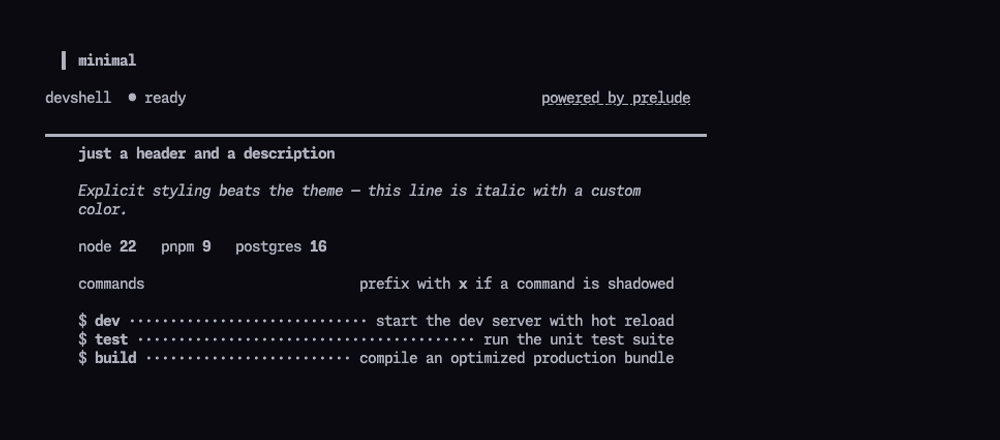
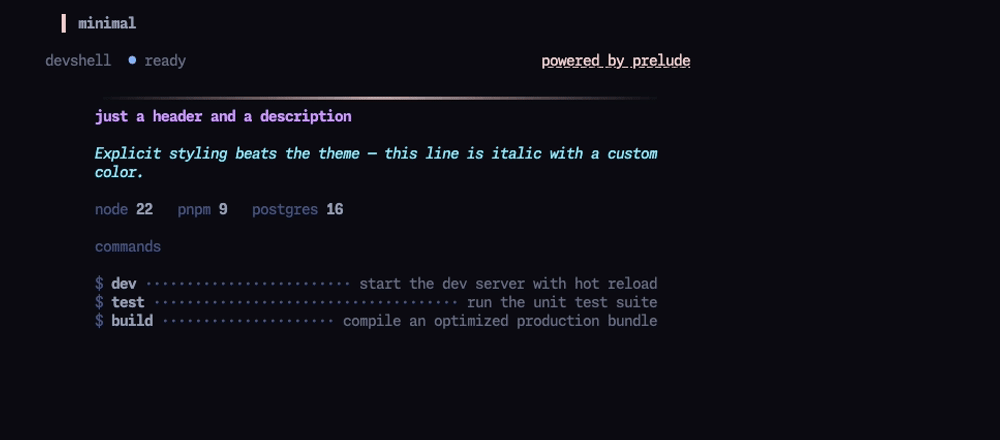
Update MOTD demos, defaults, and generated documentation

diff --git a/README.md b/README.md
@@ -195,14 +195,14 @@ x --list          # print the command table (non-interactive)
 The interactive picker is a Go/bubbletea TUI (config baked to JSON at build
 time, one shared binary per system):
 
-| Keys                | Action                                                   |
+| Keys | Action |
 | ------------------- | -------------------------------------------------------- |
-| type                | filter commands (name, usage, description, group)        |
-| `↑` `↓` / `⌃n` `⌃p` | move selection                                           |
-| `⇥`                 | list: expand details · args: cycle suggested-value chips |
-| `↵`                 | run selection / append focused chip / submit args        |
-| `esc`               | collapse → clear query → quit; args: back to list        |
-| backspace (empty)   | args: back to the list                                   |
+| type | filter commands (name, usage, description, group) |
+| `↑` `↓` / `⌃n` `⌃p` | move selection |
+| `⇥` | list: expand details · args: cycle suggested-value chips |
+| `↵` | run selection / append focused chip / submit args |
+| `esc` | collapse → clear query → quit; args: back to list |
+| backspace (empty) | args: back to the list |
 
 Selecting a command with declared `args` opens argument entry: every argument
 is listed with its token, a required/flag/optional tag, description, and
@@ -260,12 +260,12 @@ Explicit colors on text items always beat the theme; `foreground = null`
 The palettes are truecolor hex. The Go renderers use the terminal environment
 and output capabilities to select the effective color depth:
 
-| Environment                            | Result                      |
+| Environment | Result |
 | -------------------------------------- | --------------------------- |
 | `COLORTERM=truecolor` + 256-color TERM | 24-bit color (`38;2;r;g;b`) |
-| no `COLORTERM` (e.g. Apple Terminal)   | quantized to 256 (`38;5;n`) |
-| `TERM=screen` (default tmux)           | no color at all             |
-| piped / non-tty                        | no color at all             |
+| no `COLORTERM` (e.g. Apple Terminal) | quantized to 256 (`38;5;n`) |
+| `TERM=screen` (default tmux) | no color at all |
+| piped / non-tty | no color at all |
 
 If colors look flat, set `prelude.colorProfile = "truecolor"` to force 24-bit
 output. `"ansi256"` forces quantization instead; `"auto"` (default) detects the
@@ -286,16 +286,16 @@ remain in the displayed suffix (`test:unit:watch` → group `test`, name
 Commands feed the interactive menu; only deliberately ungrouped commands become
 convenience executables:
 
-| Field         | Type        | Default    | Description                                                              |
+| Field | Type | Default | Description |
 | ------------- | ----------- | ---------- | ------------------------------------------------------------------------ |
-| `description` | str         | `""`       | One-line description.                                                    |
-| `exec`        | str / null  | key suffix | Shell command executed by the menu.                                      |
-| `invocation`  | str / null  | `exec`     | Canonical underlying command metadata; exact duplicates fail evaluation. |
-| `key`         | str / null  | `null`     | Single-key accelerator (`x <key>` fast path).                            |
-| `usage`       | str / null  | `null`     | Usage form shown in the menu details.                                    |
-| `details`     | str / null  | `null`     | Extended description shown before argument entry.                        |
-| `examples`    | list of str | `[ ]`      | Worked example invocations.                                              |
-| `args`        | list of arg | `[ ]`      | Arguments; presence triggers arg-entry mode in the menu.                 |
+| `description` | str | `""` | One-line description. |
+| `exec` | str / null | key suffix | Shell command executed by the menu. |
+| `invocation` | str / null | `exec` | Canonical underlying command metadata; exact duplicates fail evaluation. |
+| `key` | str / null | `null` | Single-key accelerator (`x <key>` fast path). |
+| `usage` | str / null | `null` | Usage form shown in the menu details. |
+| `details` | str / null | `null` | Extended description shown before argument entry. |
+| `examples` | list of str | `[ ]` | Worked example invocations. |
+| `args` | list of arg | `[ ]` | Arguments; presence triggers arg-entry mode in the menu. |
 
 Package-backed commands belong under `perSystem` and use `prelude.lib.fromPkg`:
 

diff --git a/docs/guides/title-rendering.md b/docs/guides/title-rendering.md
@@ -18,14 +18,14 @@ FIGlet previews, and press Enter to select one.
 
 Pager keys:
 
-| Key                                | Action                     |
+| Key | Action |
 | ---------------------------------- | -------------------------- |
-| `←`, `↑`, `h`, `k`, `Shift-Tab`    | Previous style             |
-| `→`, `↓`, `j`, `l`, `Tab`, `Space` | Next style                 |
-| `Home` / `End`                     | First / last style         |
-| `Enter`                            | Confirm the selected style |
-| `Esc` / `Backspace`                | Return to the title field  |
-| `q` / `Ctrl-C`                     | Cancel                     |
+| `←`, `↑`, `h`, `k`, `Shift-Tab` | Previous style |
+| `→`, `↓`, `j`, `l`, `Tab`, `Space` | Next style |
+| `Home` / `End` | First / last style |
+| `Enter` | Confirm the selected style |
+| `Esc` / `Backspace` | Return to the title field |
+| `q` / `Ctrl-C` | Cancel |
 
 ## Setup
 

diff --git a/docs/reference/options.md b/docs/reference/options.md
@@ -747,7 +747,7 @@ positive integer, meaning >0
 *Default:*
 
 ```nix
-20
+16
 ```
 
 
@@ -2195,7 +2195,7 @@ null or (unsigned integer, meaning >=0)
 
 
 
-Inner padding between content and the block edge\. The header and shortcuts stay edge-to-edge; only middle sections are inset\. Sides supersede the x/y axes\.
+Inner padding between content and the block edge\. The gradient divider, tagline, middle sections, and shortcuts are inset; title and status rows stay edge-to-edge\. Sides supersede the x/y axes\.
 
 
 
@@ -2336,7 +2336,7 @@ unsigned integer, meaning >=0
 *Default:*
 
 ```nix
-4
+6
 ```
 
 
@@ -2357,7 +2357,7 @@ unsigned integer, meaning >=0
 *Default:*
 
 ```nix
-2
+4
 ```
 
 
